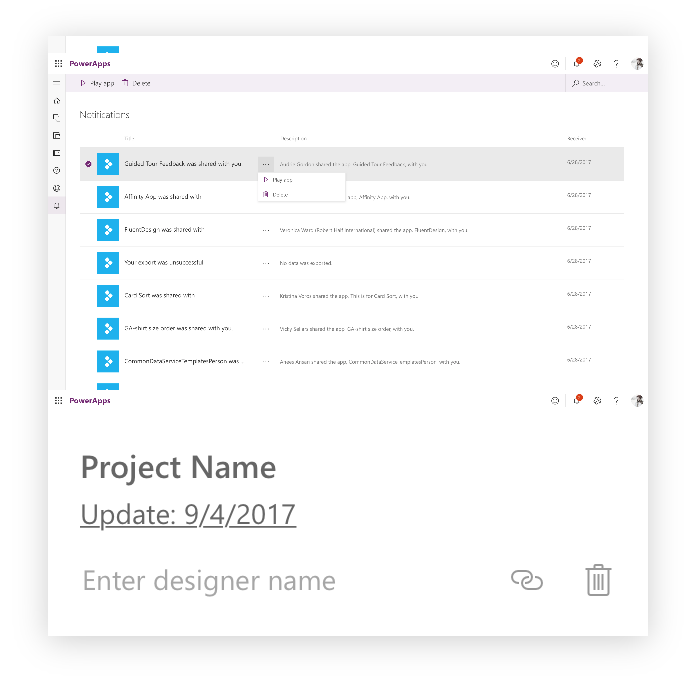
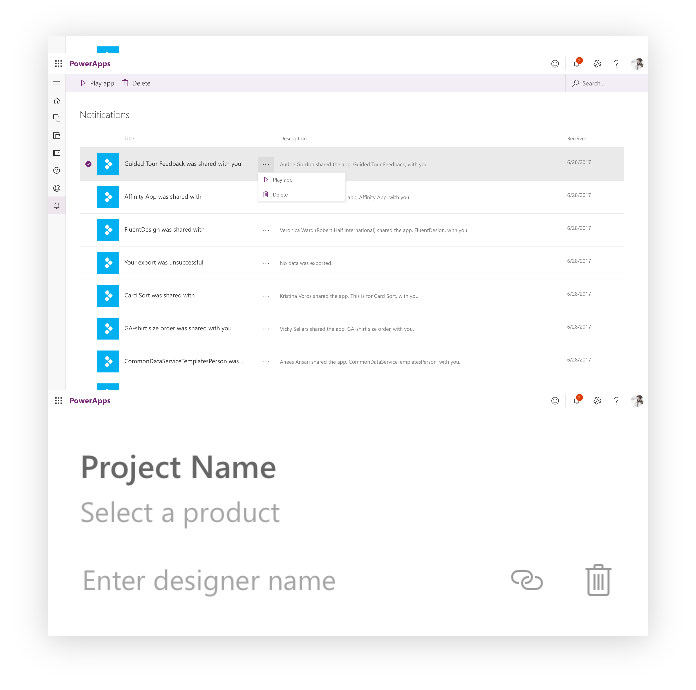
Added Refresh button

Changed region(s): [[0.1207, 0.213, 0.181, 0.5783], [0.1207, 0.7304, 0.4224, 0.7913], [0.1207, 0.0609, 0.181, 0.0913]]

diff --git a/src/components/Home.vue b/src/components/Home.vue
@@ -22,6 +22,7 @@
       <li class='tab' @click='filter = "Dynamics 365"' :class="{ 'active-tab': filter == 'Dynamics 365' }">Dynamics 365</li>
       <li class='tab' @click='filter = "Patterns"' :class="{ 'active-tab': filter == 'Patterns' }">Patterns</li>
       <li class='tab' @click='filter = "CDS"' :class="{ 'active-tab': filter == 'CDS' }">CDS</li>
+      <li class='tab' @click='filter = "Flow"' :class="{ 'active-tab': filter == 'Flow' }">Flow</li>
     </ul>
     <transition-group name="list" tag="div">
       <Block v-for='project in searchedProjects' :key="project['.key']" :project='project' @getImage='getImage' @deleteProject='deleteProject'  @copyLink='copyLink' @updateTitle='updateTitle' @updateDesigner='updateDesigner' @updateNote='updateNote' @updateProduct='updateProduct'></Block>
@@ -52,7 +53,11 @@
          </tab-content>
          <tab-content title="Add info">
            <div class='instructionText'>
-             Once your project is uploaded, enter the product and designer name
+             Once your project is uploaded, click Refresh to see it listed on the page
+           </div>
+           <img class='instructionImage' id='settingsImage' src="/static/images/refresh.png">
+           <div class='instructionText'>
+             Enter more information to make it more searchable
            </div>
            <img class='instructionImage' id='settingsImage' src="/static/images/project.png">
          </tab-content>

diff --git a/src/components/Block.vue b/src/components/Block.vue
@@ -48,7 +48,7 @@ export default {
     return {
       deleting: false,
       product: '',
-      productOptions: ['PowerApps Studio', 'PowerApps Portal', 'PowerApps Player', 'Admin Center', 'Dynamics 365', 'Patterns', 'CDS']
+      productOptions: ['PowerApps Studio', 'PowerApps Portal', 'PowerApps Player', 'Admin Center', 'Dynamics 365', 'Patterns', 'CDS', 'Flow']
       // productOptions: ['PowerApps Studio', 'PowerApps Portal', 'PowerApps Player', 'Flow', 'Power BI Desktop', 'Power BI Service', 'Admin Center']
     }
   },
